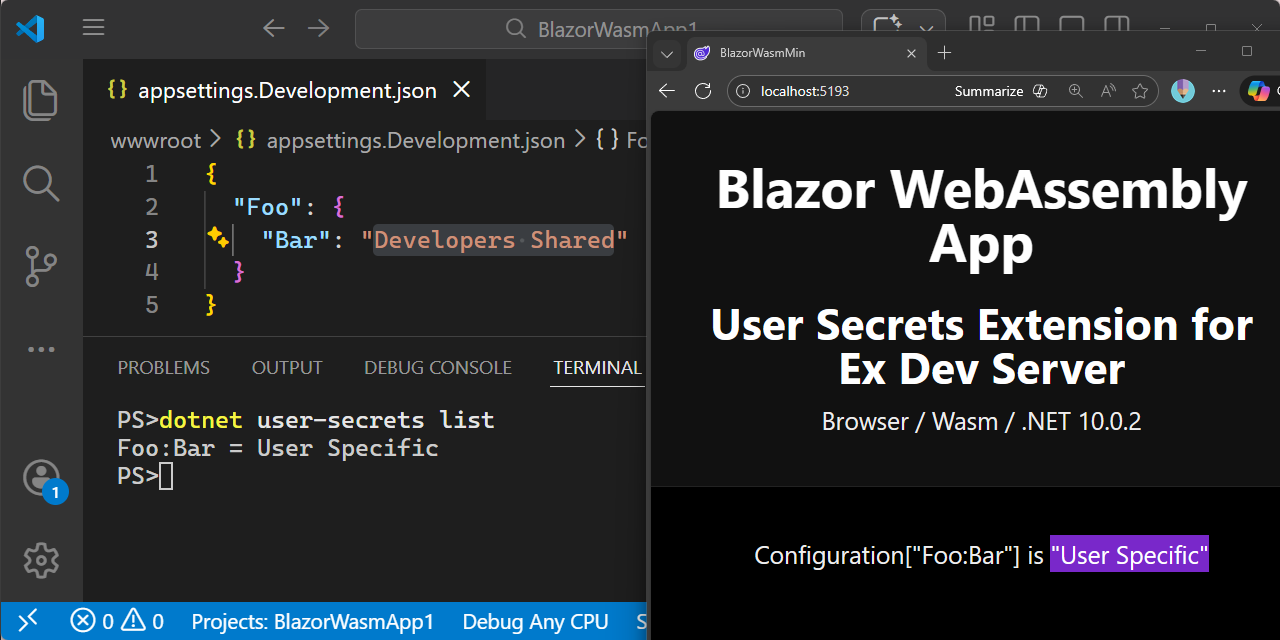
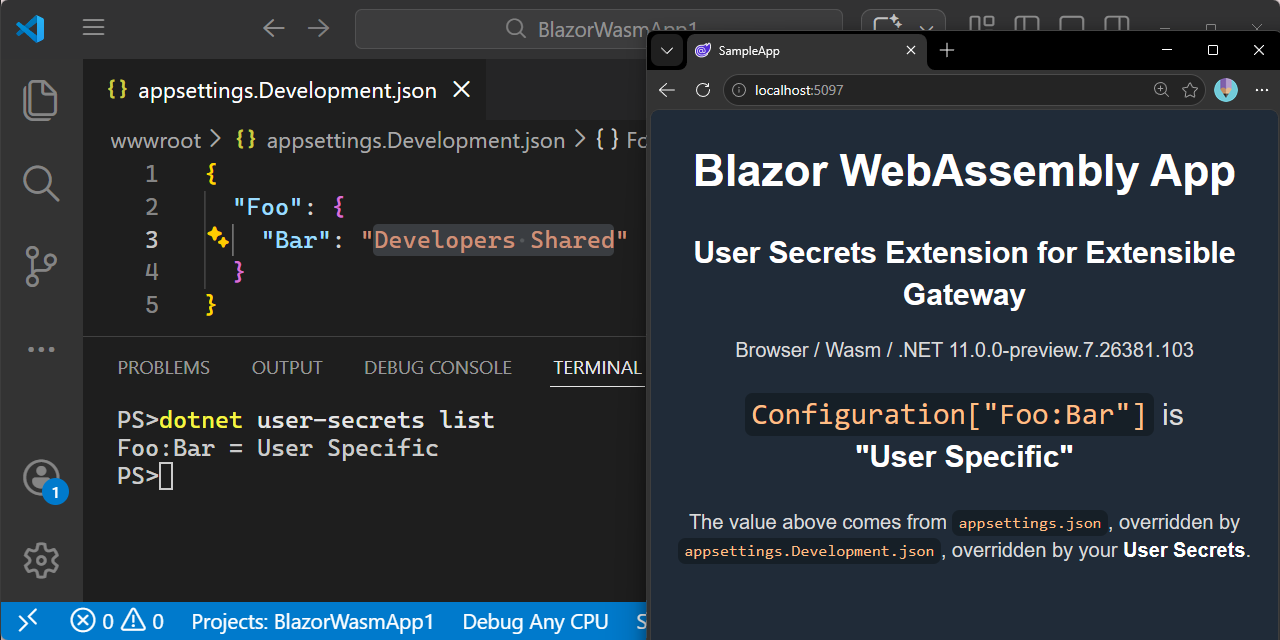
Revise sample app UI to update the social preview image

diff --git a/SampleApp/wwwroot/index.html b/SampleApp/wwwroot/index.html
@@ -1,32 +1,31 @@
-<!DOCTYPE html>
+<!doctype html>
 <html lang="en">
-
-<head>
+  <head>
     <meta charset="utf-8" />
     <meta name="viewport" content="width=device-width, initial-scale=1.0" />
     <title>SampleApp</title>
     <base href="/" />
     <link rel="preload" id="webassembly" />
+    <link rel="stylesheet" href="https://cdn.jsdelivr.net/npm/water.css@2/out/water.css" />
     <link rel="stylesheet" href="css/blazor-ui.css" />
     <link rel="stylesheet" href="SampleApp.styles.css" />
     <script type="importmap"></script>
-</head>
+  </head>
 
-<body>
+  <body>
     <div id="app">
-        <svg class="loading-progress">
-            <circle r="40%" cx="50%" cy="50%" />
-            <circle r="40%" cx="50%" cy="50%" />
-        </svg>
-        <div class="loading-progress-text"></div>
+      <svg class="loading-progress">
+        <circle r="40%" cx="50%" cy="50%" />
+        <circle r="40%" cx="50%" cy="50%" />
+      </svg>
+      <div class="loading-progress-text"></div>
     </div>
 
     <div id="blazor-error-ui">
-        An unhandled error has occurred.
-        <a href="" class="reload">Reload</a>
-        <a class="dismiss">🗙</a>
+      An unhandled error has occurred.
+      <a href="" class="reload">Reload</a>
+      <a class="dismiss">🗙</a>
     </div>
     <script src="_framework/blazor.webassembly#[.{fingerprint}].js"></script>
-</body>
-
+  </body>
 </html>

diff --git a/SampleApp/App.razor.css b/SampleApp/App.razor.css
@@ -1,1 +1,3 @@
-
+strong {
+    white-space: nowrap;
+}
